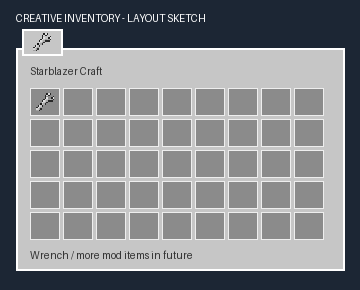
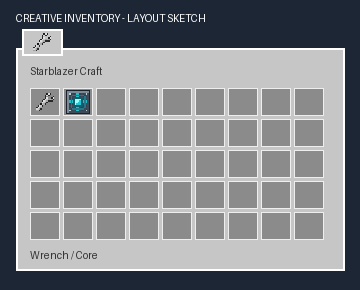
Add core block, wrench integration, loot and documented PNG previews

Changed region(s): [[0.2139, 0.869, 0.55, 0.9], [0.1833, 0.3103, 0.275, 0.4034]]

diff --git a/src/main/java/dev/starblazer/craft/StarblazerCraft.java b/src/main/java/dev/starblazer/craft/StarblazerCraft.java
@@ -8,6 +8,10 @@ import net.minecraft.world.item.ItemStack;
 import net.minecraft.tags.TagKey;
 import net.minecraft.world.item.CreativeModeTabs;
 import net.minecraft.world.item.Item;
+import net.minecraft.world.item.BlockItem;
+import net.minecraft.world.level.block.SoundType;
+import net.minecraft.world.level.block.state.BlockBehaviour;
+import net.minecraft.world.level.material.MapColor;
 import net.minecraft.world.level.block.Block;
 import net.minecraftforge.event.BuildCreativeModeTabContentsEvent;
 import net.minecraftforge.eventbus.api.IEventBus;
@@ -21,8 +25,14 @@ import net.minecraftforge.registries.RegistryObject;
 public class StarblazerCraft {
     public static final String ID = "starblazercraft";
     public static final TagKey<Block> CORES = TagKey.create(Registries.BLOCK, new ResourceLocation(ID, "assembly_cores"));
+    private static final DeferredRegister<Block> BLOCKS = DeferredRegister.create(ForgeRegistries.BLOCKS, ID);
+    public static final RegistryObject<Block> CORE_BLOCK = BLOCKS.register("core", () -> new Block(
+        BlockBehaviour.Properties.of().mapColor(MapColor.METAL).strength(4.0F, 8.0F)
+            .sound(SoundType.METAL).requiresCorrectToolForDrops().lightLevel(state -> 7)));
     private static final DeferredRegister<Item> ITEMS = DeferredRegister.create(ForgeRegistries.ITEMS, ID);
     public static final RegistryObject<Item> WRENCH = ITEMS.register("wrench", () -> new WrenchItem(new Item.Properties().stacksTo(1)));
+
+    public static final RegistryObject<Item> CORE_ITEM = ITEMS.register("core", () -> new BlockItem(CORE_BLOCK.get(), new Item.Properties()));
 
     private static final DeferredRegister<CreativeModeTab> TABS = DeferredRegister.create(Registries.CREATIVE_MODE_TAB, ID);
     public static final RegistryObject<CreativeModeTab> MAIN_TAB = TABS.register("main", () -> CreativeModeTab.builder()
@@ -33,6 +43,7 @@ public class StarblazerCraft {
 
     public StarblazerCraft() {
         IEventBus bus = FMLJavaModLoadingContext.get().getModEventBus();
+        BLOCKS.register(bus);
         ITEMS.register(bus);
         TABS.register(bus);
         bus.addListener(this::creative);

diff --git a/scripts/generate_texture_index.py b/scripts/generate_texture_index.py
@@ -98,7 +98,7 @@ def png(image):
     out=io.BytesIO();image.save(out,format='PNG');return out.getvalue()
 
 
-def creative_tab_preview(texture):
+def creative_tab_preview(texture, core):
     """Documentation-only schematic, not a game screenshot or runtime GUI texture."""
     image = Image.new('RGBA', (360, 290), (28, 38, 52, 255))
     d = ImageDraw.Draw(image)
@@ -113,7 +113,8 @@ def creative_tab_preview(texture):
             x, y = 30 + col * 33, 88 + row * 31
             d.rectangle((x, y, x + 29, y + 27), fill='#8b8b8b', outline='#eeeeee')
     image.alpha_composite(icon, (33, 90))
-    d.text((30, 249), 'Wrench / more mod items in future', fill='#303030')
+    image.alpha_composite(core.resize((24,24), Image.Resampling.NEAREST), (66,90))
+    d.text((30, 249), 'Wrench / Core', fill='#303030')
     return image
 
 
@@ -121,7 +122,7 @@ def generate():
     models, paths, dimensions=collect([ROOT/'src/main/resources/assets',ROOT/'docs/examples/assets'])
     textures={key:Image.open(path).convert('RGBA') for key,path in paths.items()}
     outputs={}
-    outputs['docs/images/catalog/ui/creative-tab.png']=png(creative_tab_preview(textures['starblazercraft:item/wrench']))
+    outputs['docs/images/catalog/ui/creative-tab.png']=png(creative_tab_preview(textures['starblazercraft:item/wrench'], textures['starblazercraft:block/core']))
     lines=['# テクスチャ一覧', '', 'アイテム・ブロック・UI を追加／変更するたびに、この一覧と PNG 見本を更新します。',
            '', '**画像は JSON から生成した簡易見本で、ゲーム内スクリーンショットではありません。**',
            '手持ち画像は一人称右手の `display` 設定を適用したモデル単体の見本です（プレイヤーの手は描画しません）。',

diff --git a/tests/test_core_assets.py b/tests/test_core_assets.py
@@ -1,0 +1,25 @@
+import json
+from pathlib import Path
+import unittest
+
+ROOT = Path(__file__).resolve().parents[1] / 'src/main/resources'
+
+class CoreAssetTests(unittest.TestCase):
+    def load(self, name):
+        return json.loads((ROOT / name).read_text(encoding='utf-8'))
+
+    def test_core_is_recognized_by_wrench(self):
+        self.assertIn('starblazercraft:core', self.load('data/starblazercraft/tags/blocks/assembly_cores.json')['values'])
+
+    def test_correct_tool_and_drop(self):
+        for tag in ('mineable/pickaxe', 'needs_iron_tool'):
+            self.assertIn('starblazercraft:core', self.load(f'data/minecraft/tags/blocks/{tag}.json')['values'])
+        loot = self.load('data/starblazercraft/loot_tables/blocks/core.json')
+        self.assertEqual(loot['pools'][0]['entries'][0]['name'], 'starblazercraft:core')
+        self.assertEqual(loot['pools'][0]['conditions'][0]['condition'], 'minecraft:survives_explosion')
+
+    def test_models_and_names(self):
+        self.assertEqual(self.load('assets/starblazercraft/blockstates/core.json')['variants']['']['model'], 'starblazercraft:block/core')
+        self.assertEqual(self.load('assets/starblazercraft/models/item/core.json')['parent'], 'starblazercraft:block/core')
+        for language in ('ja_jp', 'en_us'):
+            self.assertIn('block.starblazercraft.core', self.load(f'assets/starblazercraft/lang/{language}.json'))

diff --git a/scripts/generate_core_texture.py b/scripts/generate_core_texture.py
@@ -1,0 +1,26 @@
+"""Generate the original 16x16 core texture using only the Python standard library."""
+from pathlib import Path
+from generate_texture_examples import write_png
+
+ROOT = Path(__file__).resolve().parents[1]
+
+def generate():
+    pixels=[]
+    for y in range(16):
+        row=[]
+        for x in range(16):
+            edge=min(x,y,15-x,15-y)
+            if edge==0: c=(27,34,44)
+            elif edge==1: c=(121,139,151) if x+y<16 else (62,76,90)
+            elif (x,y) in ((2,2),(13,2),(2,13),(13,13)): c=(193,210,214)
+            elif 5<=x<=10 and 5<=y<=10:
+                if x in (5,10) or y in (5,10): c=(22,91,105)
+                else: c=(154,255,245) if x+y<16 else (37,198,211)
+            elif (x in (3,12) and 4<=y<=11) or (y in (3,12) and 4<=x<=11): c=(37,119,137)
+            elif (x in (7,8) and edge>1) or (y in (7,8) and edge>1): c=(35,191,198)
+            else: c=(51,65,80) if (x+y)%2 else (59,73,88)
+            row.append(c+(255,))
+        pixels.append(row)
+    write_png(ROOT/'src/main/resources/assets/starblazercraft/textures/block/core.png',pixels)
+
+if __name__=='__main__': generate()

diff --git a/scripts/verify_jar.py b/scripts/verify_jar.py
@@ -22,6 +22,13 @@ with ZipFile(path) as jar:
         'assets/starblazercraft/models/item/wrench.json',
         'assets/starblazercraft/textures/item/wrench.png',
         'data/starblazercraft/tags/blocks/assembly_cores.json',
+        'assets/starblazercraft/blockstates/core.json',
+        'assets/starblazercraft/models/block/core.json',
+        'assets/starblazercraft/models/item/core.json',
+        'assets/starblazercraft/textures/block/core.png',
+        'data/starblazercraft/loot_tables/blocks/core.json',
+        'data/minecraft/tags/blocks/mineable/pickaxe.json',
+        'data/minecraft/tags/blocks/needs_iron_tool.json',
     ):
         assert name in jar.namelist(), name
     assert not any(n.startswith(('docs/', 'tests/', 'scripts/')) for n in jar.namelist())

diff --git a/テクスチャ一覧.md b/テクスチャ一覧.md
@@ -11,6 +11,7 @@
 
 | ID | 区分 | PNG（拡大） | 元画像 |
 |---|---|---|---|
+| `starblazercraft:block/core` | 実装素材 | ![starblazercraft:block/core](docs/images/catalog/starblazercraft/block/core-texture.png) | [16×16](src/main/resources/assets/starblazercraft/textures/block/core.png) |
 | `starblazercraft:block/example_block_side` | 説明用・未登録 | ![starblazercraft:block/example_block_side](docs/images/catalog/starblazercraft/block/example_block_side-texture.png) | [16×16](docs/examples/assets/starblazercraft/textures/block/example_block_side.png) |
 | `starblazercraft:block/example_block_top` | 説明用・未登録 | ![starblazercraft:block/example_block_top](docs/images/catalog/starblazercraft/block/example_block_top-texture.png) | [16×16](docs/examples/assets/starblazercraft/textures/block/example_block_top.png) |
 | `starblazercraft:item/example_crystal` | 説明用・未登録 | ![starblazercraft:item/example_crystal](docs/images/catalog/starblazercraft/item/example_crystal-texture.png) | [16×16](docs/examples/assets/starblazercraft/textures/item/example_crystal.png) |
@@ -20,7 +21,9 @@
 
 | モデル | 種別 | PNG 見本 | JSON |
 |---|---|---|---|
+| `starblazercraft:block/core` | 設置時 | ![設置時](docs/images/catalog/starblazercraft/block/core-placed.png) | [JSON](src/main/resources/assets/starblazercraft/models/block/core.json) |
 | `starblazercraft:block/example_block` | 設置時（説明用・未登録） | ![設置時（説明用・未登録）](docs/images/catalog/starblazercraft/block/example_block-placed.png) | [JSON](docs/examples/assets/starblazercraft/models/block/example_block.json) |
+| `starblazercraft:item/core` | 手持ち | ![手持ち](docs/images/catalog/starblazercraft/item/core-held.png) | [JSON](src/main/resources/assets/starblazercraft/models/item/core.json) |
 | `starblazercraft:item/example_block` | 手持ち（説明用・未登録） | ![手持ち（説明用・未登録）](docs/images/catalog/starblazercraft/item/example_block-held.png) | [JSON](docs/examples/assets/starblazercraft/models/item/example_block.json) |
 | `starblazercraft:item/example_crystal` | 手持ち（説明用・未登録） | ![手持ち（説明用・未登録）](docs/images/catalog/starblazercraft/item/example_crystal-held.png) | [JSON](docs/examples/assets/starblazercraft/models/item/example_crystal.json) |
 | `starblazercraft:item/wrench` | 手持ち | ![手持ち](docs/images/catalog/starblazercraft/item/wrench-held.png) | [JSON](src/main/resources/assets/starblazercraft/models/item/wrench.json) |

diff --git a/docs/CORE.md b/docs/CORE.md
@@ -1,0 +1,42 @@
+# コアブロック（0.3.1）
+
+レンチで範囲選択を始めるための、実際に設置できる通常ブロックです。
+
+- ID：`starblazercraft:core`
+- 名前：日本語「コア」、英語「Core」
+- 入手：クリエイティブの **Starblazer Craft** タブ、または `/give @s starblazercraft:core`
+- 金属の設置音、硬さ4・爆破耐性8、明るさ7
+- 鉄以上のツルハシで回収可能。素手・不適切な道具ではアイテムを落としません。
+- クラフトレシピ・専用画面・内部インベントリはまだありません。
+
+## 使用方法
+
+1. 通常の建築可能な場所にコアを設置します。
+2. レンチでコアを右クリックし、選択を開始します。
+3. コアを含む直方体の端点を2点、右クリックで指定します。
+4. 範囲外のブロックは Shift＋左クリックで追加できます。
+
+既存の `starblazercraft:assembly_cores` タグに登録しているため、テスト用データパックは不要です。
+選択成功時には対象ブロックの設置音が鳴ります。コアの場合は金属音です。
+コアが壊された場合、レンチの次の選択操作は既存のコア検証で拒否します。
+
+**今回は選択の起点だけです。エンティティ化・船の移動は実装していません。**
+選択データは引き続きレンチに保存し、コアに毎tickの処理やブロックエンティティは追加していません。
+
+## 見た目
+
+オリジナルの16×16テクスチャで、金属の外枠と青緑色の中心を持つ立方体です。
+全6面で同じ画像を使用し、設置時・手持ち・インベントリで立体表示します。
+
+![設置形状の見本](images/catalog/starblazercraft/block/core-placed.png)
+
+上の画像はJSONから生成した見本で、ゲーム内スクリーンショットではありません。
+[テクスチャ一覧](../テクスチャ一覧.md) に元画像と手持ち見本も掲載しています。
+再生成：`python3 scripts/generate_core_texture.py` → `python3 scripts/generate_texture_index.py`
+
+## 確認
+
+モデル参照、コアタグ、道具タグ、ドロップ定義、翻訳、一覧PNGの同期を自動検査します。
+ゲーム内での設置・回収・発光・レンチ連携・マルチ操作は未検証です。
+月の解析的地表は通常ブロックではないため、そこには設置できません。
+サイトの公開は行いません。

diff --git a/README.md b/README.md
@@ -3,17 +3,18 @@
 Minecraft **1.20.1 / Forge 47.x / Java 17** 用の独立 MOD です。Create などへの依存はありません。
 船・航空機・宇宙艦へ向けた基盤を段階的に実装します。
 
-## 現在の内容（0.3.0）
+## 現在の内容（0.3.1）
 
 - 同じワールド内でY=5000を宇宙への入口とする高高度環境の試作（建築上限は変更しません）。
 - 地球と月の同一ワールド表示、上半球へ着陸・歩行できる小規模な解析的月面（採掘・建築は未対応）。
 - 高度による空の暗化・星、エリトラ失速・酸欠・重力倍率。
+- 設置可能なコアブロック。レンチで範囲選択を開始できます。
 - クリエイティブインベントリに「Starblazer Craft」専用タブ（レンチのアイコン）。
 - レンチアイテム（日本語・英語表示、16×16 テクスチャ、厚みのある3Dモデル）。
 - 将来のコアを起点に対角2点を指定し、直方体の範囲を保存。
 - Shift＋左クリックで範囲外のブロックを追加選択。
 - 選択成功時、クリックしたブロックの設置音をその位置で再生。
-- コア・エンティティ化・船体物理は未実装。ワールドのブロックは変更しません。
+- エンティティ化・船体物理は未実装。ワールドのブロックは変更しません。
 
 [レンチの操作・制限・テスト方法](docs/WRENCH.md)
 
@@ -36,13 +37,15 @@ python3 -m unittest discover -s tests -v
 python3 scripts/asset_catalog.py
 ```
 
-JAR: `build/libs/starblazer-craft-1.20.1-0.3.0.jar`
+JAR: `build/libs/starblazer-craft-1.20.1-0.3.1.jar`
 
 GitHub Actions でも Forge コンパイル・Java の選択計算テスト・素材検査を行います。
 ゲーム実起動・マルチプレイの操作テストとは別です。
 ソースは main、配布 JAR は Releases に置き、JAR は Git 管理に含めません。
 
 ## 資料・素材確認
+
+- [コアブロックの説明](docs/CORE.md)
 
 - [宇宙・地球・月面着陸の仕様と試験方法](docs/SPACE.md)
 

diff --git a/docs/WRENCH.md b/docs/WRENCH.md
@@ -13,7 +13,7 @@
 
 **今回は範囲選択の保存までです。エンティティ化・移動・描画・物理演算は未実装です。**
 選択完了時にもワールドのブロックは削除・変更しません。
-コア自体も未実装なので、通常のワールドでは開始できません。下記のテスト用タグで試せます。
+0.3.1から通常のワールドに [コアブロック](CORE.md) を設置して開始できます。テスト用タグは不要です。
 
 ## 操作（メインハンドにレンチを持つ）
 
@@ -51,9 +51,9 @@
 この段階では選択枠・追加座標のハイライトはありません。メッセージとレンチのツールチップで確認します。
 土地保護 MOD との連携は未実装です。将来の実変換時には、各ブロックの権限・ロード状態・ブロックエンティティの保存可否を再検証します。
 
-## コア未実装の間のテスト
+## 別のブロックをコアとして使うテスト（任意）
 
-既存ブロックを正式なコアとして登録することはしていません。
+正式なコアとして `starblazercraft:core` を登録済みです。追加で別ブロックを試したい場合のみ、以下を使います。
 テストワールドでのみ、データパックのタグに任意のブロックを設定できます。
 例えば以下を `data/starblazercraft/tags/blocks/assembly_cores.json` に置きます。
 
@@ -77,7 +77,7 @@
 
 ## 今後の実装
 
-1. コアブロックと選択のハイライト。
+1. 選択のハイライト（コアブロックは0.3.1で追加済み）。
 2. 選択データから船体データへ変換する検証処理。
 3. 複製・消失を防ぐ組み立て処理と管理エンティティ。
 4. 移動・衝突・物理・マルチ同期。

diff --git a/docs/CREATIVE_TAB.md b/docs/CREATIVE_TAB.md
@@ -3,7 +3,7 @@
 - 名前：**Starblazer Craft**（日本語・英語の表示名を登録）
 - タブ ID：`starblazercraft:main`
 - アイコン：レンチ
-- 内容：本 MOD のアイテム登録一覧を参照。現在はレンチ1種類。
+- 内容：本 MOD のアイテム登録一覧を参照。現在はレンチとコアブロックの2種類。
 
 クリエイティブモードのインベントリを開いて、レンチのアイコンのタブを選択します。
 タブが多い環境では Forge のタブページ切り替えも確認してください。
